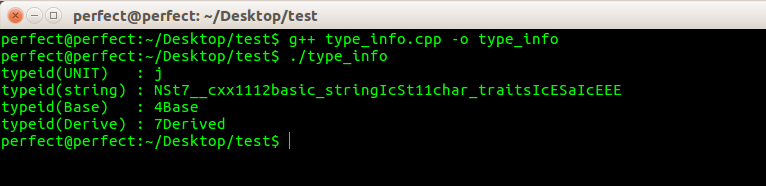
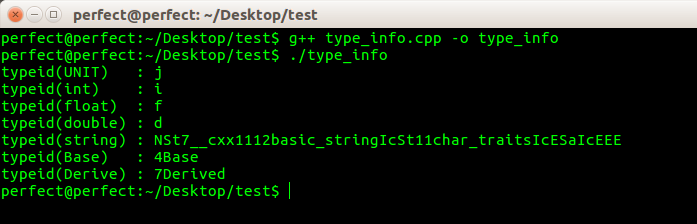
RTTI

Changed region(s): [[0.0, 0.0, 1.0, 0.8871]]

diff --git a/_posts/2016-11-13-cpp-object-memory-02-20161113.md b/_posts/2016-11-13-cpp-object-memory-02-20161113.md
@@ -152,6 +152,9 @@ typedef unsigned int UNIT;
 int main()
 {
 	cout << "typeid(UNIT)   : " << typeid(UNIT).name() << endl;
+	cout << "typeid(int)    : " << typeid(int).name() << endl;
+	cout << "typeid(float)  : " << typeid(float).name() << endl;
+	cout << "typeid(double) : " << typeid(double).name() << endl;
 	cout << "typeid(string) : " << typeid(string).name() << endl;
 	cout << "typeid(Base)   : " << typeid(Base).name() << endl;
 	cout << "typeid(Derive) : " << typeid(Derived).name() << endl;
